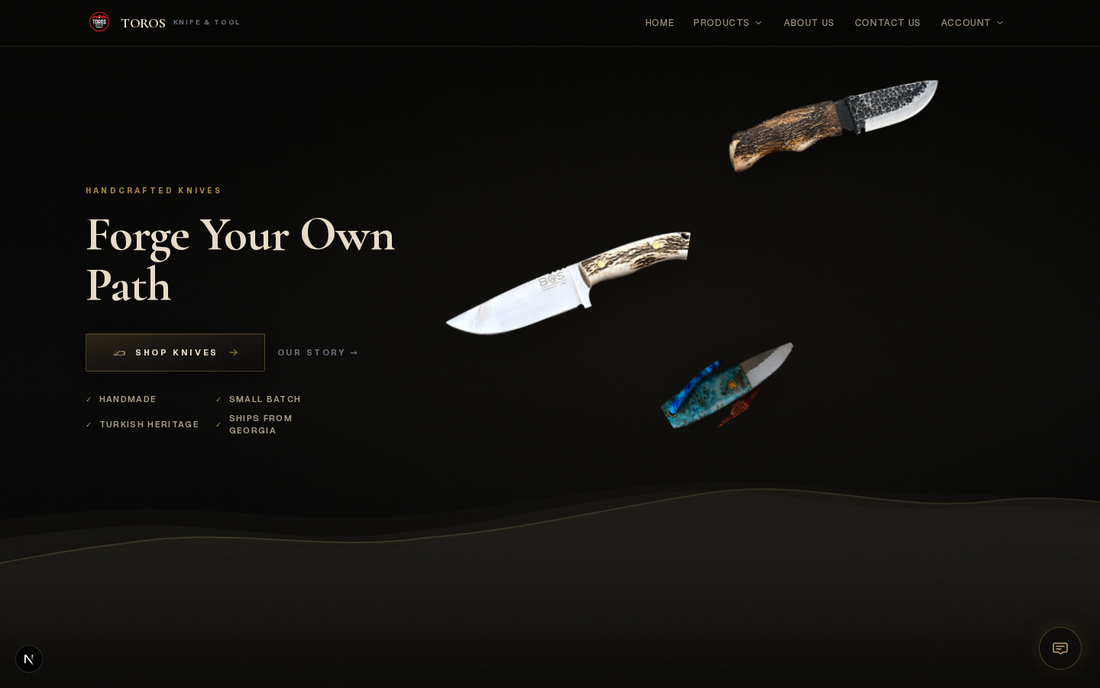
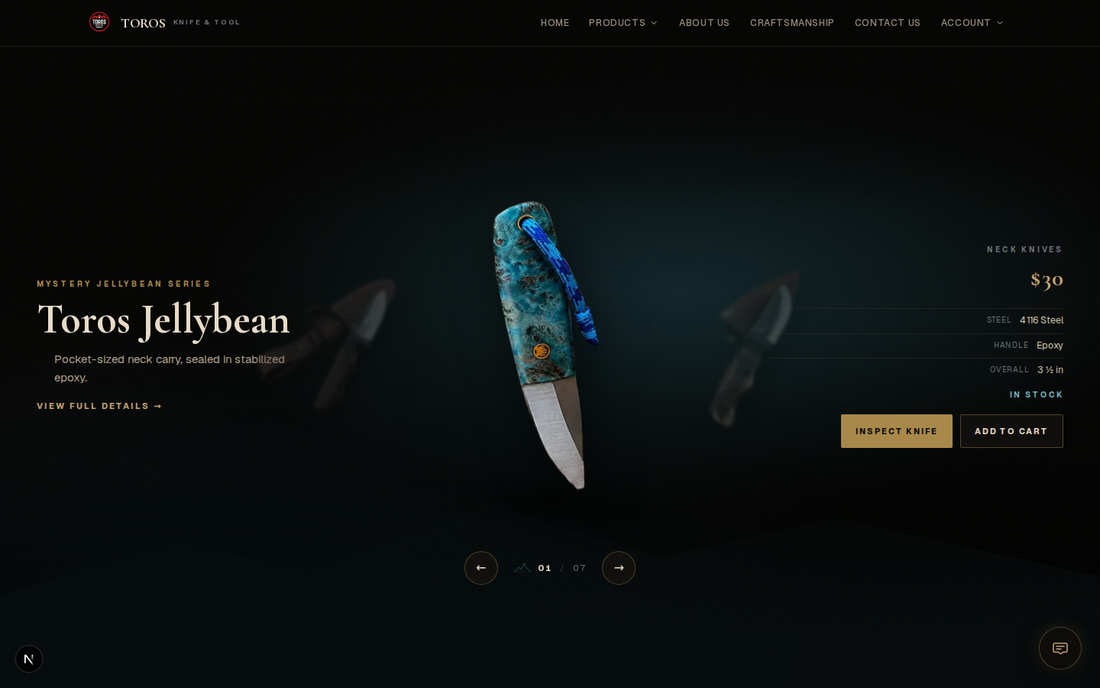
Correct README inaccuracies and refresh hero screenshots
Reading the project files surfaced documentation that was wrong rather
than merely out of date:

- Getting Started said to open localhost:3000, but the dev script binds
  port 3004. Following the README verbatim gives you a dead page.
- All four documented brand colours were wrong (#c9a227 gold, #0c0b0a
  charcoal, #a89070 tan, #8b2635 red). The real tokens in globals.css are
  #a8894a, #0d0c0a, #9a8468 and #5c1a1f. Replaced with the actual set and
  noted the per-product --knife-accent.
- Product image paths were documented as /products/{slug}-1.jpg; the real
  convention is /images/products/{slug}/main.jpg, and photos go in
  public/images/products/{slug}/, not public/products/.
- The Screenshots section still advertised "Hero parallax + hover
  interaction" with a GIF of a hero that no longer exists.

Replaced that GIF with a recording of the actual carousel (selecting
knives, opening the closer look) plus an inspection still, regenerated
the now-stale homepage screenshot, and refreshed the structure, Phase 1
and roadmap sections to match what ships. Verified every image path in
the README resolves.

Claude-Session: https://claude.ai/code/session_012tp14VVZwwuGb6AXRPBMUV

diff --git a/README.md b/README.md
@@ -14,9 +14,13 @@ Premium e-commerce storefront for **Toros Knife & Tool** — handcrafted Turkish
 | --- |
 | ![Product detail page](docs/media/product-detail.png) |
 
-**Hero parallax + hover interaction:**
+**Homepage hero — manual seven-knife carousel (Framer Motion):**
 
-![Hero parallax and hover animation](docs/media/hero-animation.gif)
+![Hero carousel: selecting knives and opening the closer look](docs/media/hero-carousel.gif)
+
+**Closer look (inspection view):**
+
+![Inspection view for a featured knife](docs/media/hero-inspect.png)
 
 **Craftsmanship page — scroll-driven media expansion (Framer Motion):**
 
@@ -28,12 +32,14 @@ Premium e-commerce storefront for **Toros Knife & Tool** — handcrafted Turkish
 
 - Dark premium aesthetic with tan/gold accents
 - Mobile-first responsive layout
-- Homepage with hero, categories, featured products, heritage, maker story, use cases, collector club, email capture
+- Homepage hero: a manual seven-knife carousel with per-product environments and an
+  accessible inspection view (no autoplay; arrows, side selection, drag/swipe, arrow keys)
 - Shop page with category filtering
 - Product detail pages with specs, craftsmanship, care, shipping, and trust sections
-- Local product data (`data/products.ts`)
-- Placeholder product imagery (ready for real photos)
+- Local product data (`data/products.ts`) — the single source of truth for prices and specs
+- Real product photography, plus transparent hero cutouts in `public/images/hero/knives/`
 - Craftsmanship page (`/craftsmanship`) with a scroll-driven media expansion hero (Framer Motion)
+- Local demo cart behind a swappable `CommerceAdapter` seam (`lib/demo-cart.ts`) — no payment
 
 **Not included in Phase 1:** Knife Finder quiz, 360 viewer, event landing pages, email backend, live checkout.
 
@@ -52,7 +58,7 @@ npm install
 npm run dev
 ```
 
-Open [http://localhost:3000](http://localhost:3000).
+Open [http://127.0.0.1:3004](http://127.0.0.1:3004) — the `dev` script uses port **3004**, not 3000.
 
 ```bash
 npm run build   # production build
@@ -67,6 +73,8 @@ toros-knife-tool/
 │   ├── layout.tsx          # Root layout, fonts, header/footer
 │   ├── page.tsx            # Homepage
 │   ├── shop/page.tsx       # Shop + category filter
+│   ├── craftsmanship/      # Scroll-driven media expansion page
+│   ├── about/, contact/, mystery-bag/, cart/, login/, register/
 │   └── products/[slug]/    # Product detail (static generation)
 ├── components/
 │   ├── Header.tsx          # Navigation + mobile menu
@@ -75,10 +83,14 @@ toros-knife-tool/
 │   ├── ProductGallery.tsx
 │   ├── ProductImage.tsx    # Real image or placeholder fallback
 │   ├── AddToCartButton.tsx # Checkout URL or placeholder CTA
-│   ├── home/               # Homepage sections
-│   └── ui/                 # Button, SectionHeader
+│   ├── home/
+│   │   ├── Hero.tsx        # Server wrapper — resolves the featured products
+│   │   └── hero/           # Carousel client island, environments, inspection
+│   └── ui/                 # Button, SectionHeader, ScrollExpandMedia
 ├── data/products.ts        # Product catalog (edit here)
 ├── lib/products.ts         # Data access helpers
+├── lib/demo-cart.ts        # Demo commerce adapter (no payment)
+├── docs/                   # Hero product + asset audits
 └── types/product.ts        # TypeScript product model
 ```
 
@@ -92,7 +104,7 @@ Open `data/products.ts`. Each product supports:
 |-------|-------------|
 | `name`, `slug`, `category`, `price` | Core listing info |
 | `shortDescription`, `longDescription` | Card + detail copy |
-| `images` | Array of image paths, e.g. `["/products/anatolian-hunter-1.jpg"]` |
+| `images` | Array of image paths, e.g. `["/images/products/gur-tuva/main.jpg"]` |
 | `spinImages` | Reserved for Phase 2 360 viewer |
 | `steel`, `handleMaterial`, `bladeLength`, `totalLength` | Specs table |
 | `bestUses`, `tags` | Use-case badges |
@@ -107,9 +119,9 @@ withDefaults({
   slug: "anatolian-hunter",
   // ...
   images: [
-    "/products/anatolian-hunter/front.jpg",
-    "/products/anatolian-hunter/profile.jpg",
-    "/products/anatolian-hunter/sheath.jpg",
+    "/images/products/anatolian-hunter/main.jpg",
+    "/images/products/anatolian-hunter/profile.jpg",
+    "/images/products/anatolian-hunter/sheath.jpg",
   ],
   checkoutUrl: "https://your-store.myshopify.com/cart/VARIANT_ID:1",
 }),
@@ -117,7 +129,12 @@ withDefaults({
 
 ### 2. Add product photos
 
-Place files in `public/products/` matching the paths in `images[]`. The `ProductImage` component automatically uses placeholders when `images` is empty.
+Place files in `public/images/products/{slug}/` matching the paths in `images[]`. The `ProductImage` component automatically uses placeholders when `images` is empty.
+
+If the product is also featured in the homepage hero, add a transparent cutout at
+`public/images/hero/knives/{slug}.png` and update its dimensions in
+`components/home/hero/hero-knives.ts`. `scripts/build-hero-cutouts.py` regenerates
+these from the product photography by masking — see `docs/hero-asset-audit.md`.
 
 Recommended specs:
 - **Hero / primary:** 1600×2000px (4:5 aspect)
@@ -157,19 +174,25 @@ Do **not** build custom payment processing. Use one of these approaches:
 
 Defined in `app/globals.css`:
 
-- **Charcoal** `#0c0b0a` — background
-- **Gold** `#c9a227` — primary accent
-- **Tan** `#a89070` — secondary text
-- **Red** `#8b2635` — sparing accent (out of stock, etc.)
+- **Black** `#060605` — page background (`--toros-black`)
+- **Charcoal** `#0d0c0a` / **Surface** `#141210` — raised surfaces
+- **Brass** `#a8894a`, light `#c4a574` — primary accent (`--toros-brass`)
+- **Parchment** `#e8dcc8` / **Sand** `#d4c4a8` — body and heading text
+- **Tan** `#9a8468` — secondary text
+- **Oxblood** `#5c1a1f` — sparing accent (out of stock, etc.)
+
+Each featured knife also contributes a per-product accent at runtime via
+`--knife-accent`, sampled from that knife's own materials.
 
 ## Phase 2 Roadmap
 
+- Multi-angle turntable frames or a GLB model for the hero (the carousel is built to accept them)
 - Knife Finder quiz (`KnifeFinderQuiz`)
-- 360 spin viewer (`Knife360Viewer`) when `spinImages` exist
 - Event/show QR landing page
 - Contact, custom inquiry, and newsletter form backends
-- About, Craftsmanship, Privacy, and Terms pages
-- Live Shopify or Supabase sync
+- Privacy and Terms pages
+- Real checkout: replace the demo `CommerceAdapter` with Shopify Storefront or Stripe
+- Reshoots for the two hero assets flagged in `docs/hero-asset-audit.md`
 
 ## License
 
